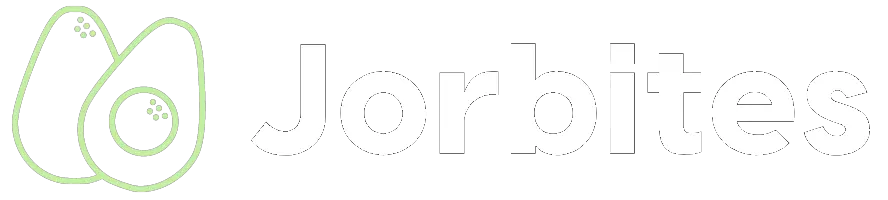
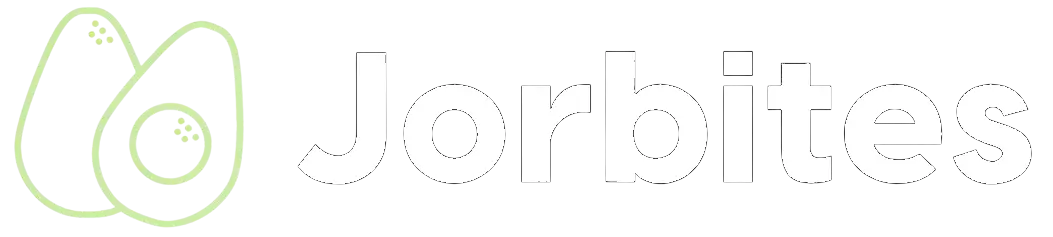
save current step in recipe draft

diff --git a/app/components/modals/RecipeModal.tsx b/app/components/modals/RecipeModal.tsx
@@ -99,6 +99,7 @@ const RecipeModal: React.FC<RecipeModalProps> = ({ currentUser }) => {
 
     const saveDraft = async () => {
         const data = {
+            currentStep: step,
             category: watch('category'),
             method: watch('method'),
             imageSrc: watch('imageSrc'),
@@ -130,14 +131,18 @@ const RecipeModal: React.FC<RecipeModalProps> = ({ currentUser }) => {
             if (!data) {
                 return;
             }
-            reset(data);
-            setNumIngredients(data.ingredients.length || 1);
-            setNumSteps(data.steps.length || 1);
-            const ingredients = watch('ingredients') || [];
+            const { currentStep, ...formData } = data;
+            reset(formData);
+            if (currentStep !== undefined) {
+                setStep(currentStep);
+            }
+            setNumIngredients(data.ingredients?.length || 1);
+            setNumSteps(data.steps?.length || 1);
+            const ingredients = formData.ingredients || [];
             ingredients.forEach((ingredient: string, index: number) => {
                 setValue(`ingredient ${index}`, ingredient);
             });
-            const steps = watch('steps') || [];
+            const steps = formData.steps || [];
             steps.forEach((step: string, index: number) => {
                 setValue(`step ${index}`, step);
             });
@@ -147,7 +152,7 @@ const RecipeModal: React.FC<RecipeModalProps> = ({ currentUser }) => {
         } finally {
             setIsLoading(false);
         }
-    }, [reset, setNumIngredients, setNumSteps, watch, setValue, t]);
+    }, [reset, setNumIngredients, setNumSteps, setValue, t]);
 
     const deleteDraft = async () => {
         try {

diff --git a/__tests__/unit_test/components/navbar/Logo.test.tsx b/__tests__/unit_test/components/navbar/Logo.test.tsx
@@ -71,11 +71,7 @@ describe('<Logo />', () => {
         const logo = screen.getByAltText('Logo');
         expect(logo.className).contain('cursor-pointer');
         expect(logo.className).contain('md:block');
-        expect(logo).toHaveProperty('width', 100);
-        expect(logo).toHaveProperty('height', 100);
-        expect(logo.style).contain({
-            width: 'auto',
-            height: 'auto',
-        });
+        expect(logo).toHaveProperty('width', 29);
+        expect(logo).toHaveProperty('height', 128);
     });
 });

diff --git a/app/components/navbar/Logo.tsx b/app/components/navbar/Logo.tsx
@@ -17,10 +17,11 @@ const Logo = () => {
             onClick={() => router.push('/')}
             alt="Logo"
             className="cursor-pointer md:block"
-            height="100"
-            width="100"
+            height="128"
+            width="29"
+            unoptimized
             src={logoImagePath}
-            style={{ width: 'auto', height: 'auto' }}
+            style={{ width: '128px', height: '29px' }}
             data-cy="logo"
         />
     );
